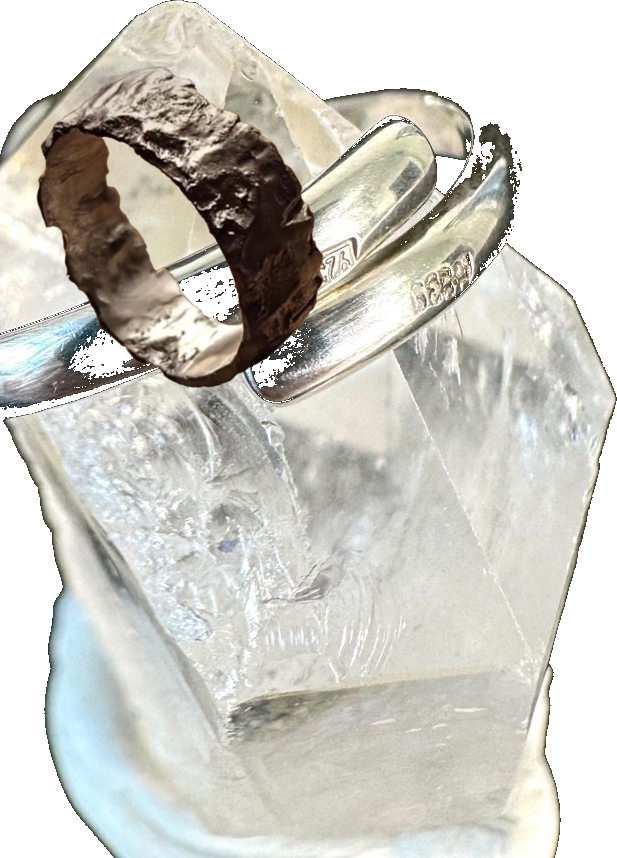
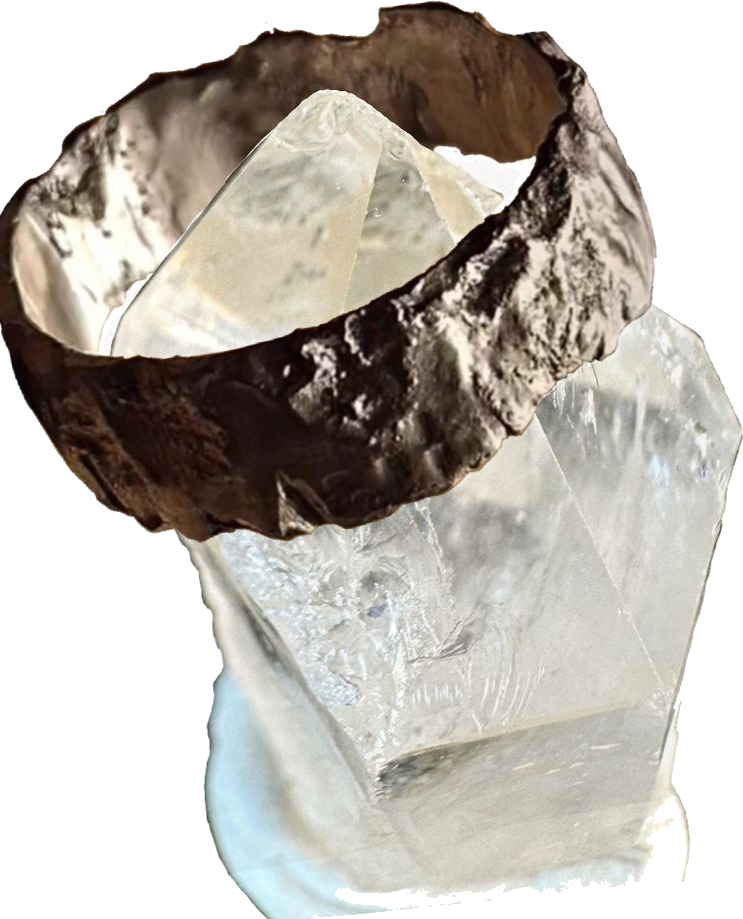
Use ringversion2.jpg (your own clean composite) for the curtain
Replaces my ImageMagick composite with screenshots/ringversion2.jpg —
no leftover trace of the original ring, much cleaner result. Removed
its white studio background via flood-fill from the corners (keeps
the crystal's own bright highlights intact, unlike a global color-key
which was eating into them). Updated .ring-stage's aspect-ratio to
match the new image (743:919).

diff --git a/css/style.css b/css/style.css
@@ -824,7 +824,7 @@ html.curtain-lock body { overflow: hidden; height: 100%; }
   top: 46%;
   left: 50%;
   width: min(62vmin, 460px);
-  aspect-ratio: 617 / 858; /* Format des Kristall-Sockel-Fotos */
+  aspect-ratio: 743 / 919; /* Format des Kristall-Sockel-Fotos */
   z-index: 2;
   opacity: 0;
   will-change: transform, opacity;
